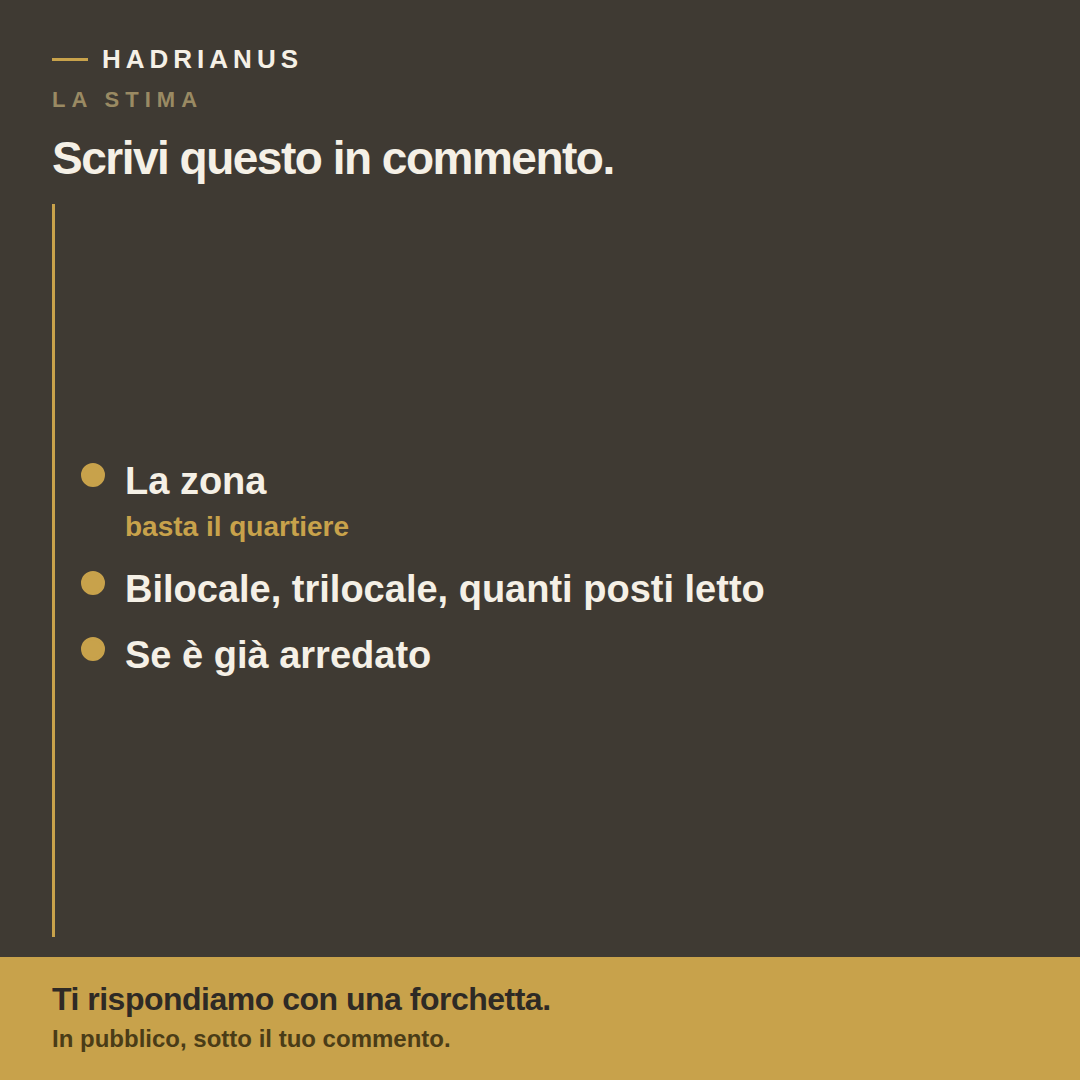
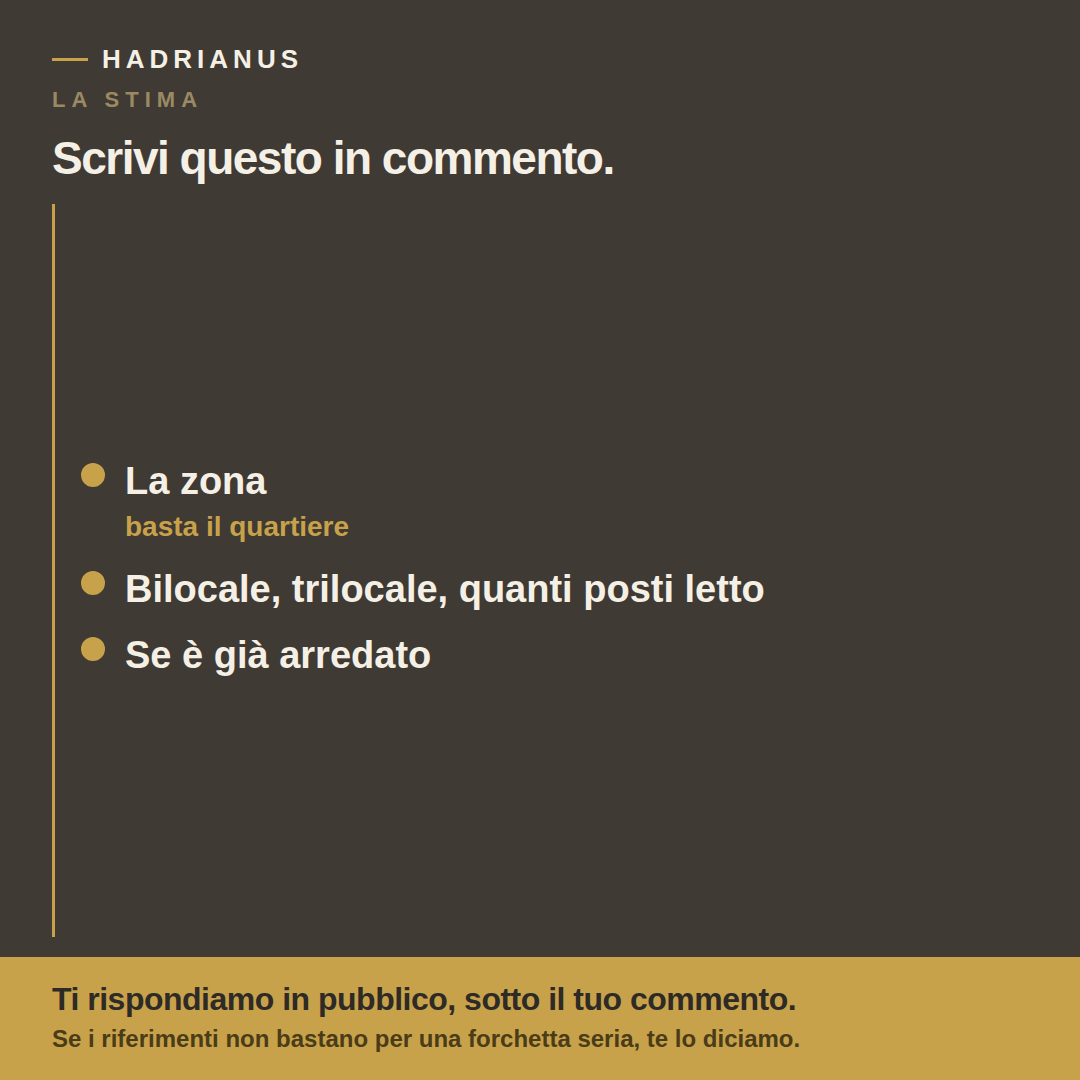
Chiude i bloccanti di compliance sulla campagna a quattro post
Tolta dal testo la riga sull'assicurazione, che resta fuori finché il
titolare non conferma chi emette la polizza: il post 4 regge sul
controllo a ogni check-out. La promessa di dare comunque una forchetta
diventa condizionata, in linea con la regola operativa della campagna
stessa. Nella terza immagine del post 1 i due caveat sono ora
leggibili e il confronto è reso onesto dicendo che in affitto lungo le
utenze le paga l'inquilino. Tolto l'accostamento fra "nessun costo
fisso" e la preparazione iniziale, finché non è chiaro chi la paga.
"Lo sappiamo subito" diventa "lo vediamo al controllo, non mesi dopo".
Corretti il refuso del post 4 e la riga condizioni che si tagliava.

Claude-Session: https://claude.ai/code/session_012jZTrBhTbSbvgQn1isvnmh

Changed region(s): [[0.0306, 0.9167, 0.7333, 0.9778]]

diff --git a/campagne/facebook-campagna-virale/grafiche/P1c.dc.html b/campagne/facebook-campagna-virale/grafiche/P1c.dc.html
@@ -34,19 +34,22 @@
           <div style="display: flex; align-items: flex-start; gap: 20px;">
             <div style="width: 18px; height: 18px; border-radius: 50%; background: #C8A24B; border: 3px solid #C8A24B; flex-shrink: 0;"></div>
             <div style="display: flex; flex-direction: column; gap: 4px; margin-top: -10px;">
-              <span style="font-family: 'Archivo', sans-serif; font-weight: 900; font-size: 66px; line-height: 1.05; letter-spacing: -1.5px; color: #cfc7b8;">800-900 &euro;</span>
+              <span style="font-family: 'Archivo', sans-serif; font-weight: 900; font-size: 58px; line-height: 1.05; letter-spacing: -1.5px; color: #cfc7b8;">800-900 &euro;</span>
               <span style="font-family: 'Manrope', sans-serif; font-weight: 600; font-size: 26px; line-height: 1.24; color: #9a8f7c;">lordi al mese, bilocale a Ostia in affitto lungo</span>
             </div>
           </div>
           <div style="display: flex; align-items: flex-start; gap: 20px;">
             <div style="width: 18px; height: 18px; border-radius: 50%; background: #C8A24B; border: 3px solid #C8A24B; flex-shrink: 0;"></div>
             <div style="display: flex; flex-direction: column; gap: 4px; margin-top: -10px;">
-              <span style="font-family: 'Archivo', sans-serif; font-weight: 900; font-size: 66px; line-height: 1.05; letter-spacing: -1.5px; color: #C8A24B;">1.000-1.100 &euro;</span>
+              <span style="font-family: 'Archivo', sans-serif; font-weight: 900; font-size: 58px; line-height: 1.05; letter-spacing: -1.5px; color: #C8A24B;">1.000-1.100 &euro;</span>
               <span style="font-family: 'Manrope', sans-serif; font-weight: 600; font-size: 26px; line-height: 1.24; color: #d8d2c4;">media al mese su base annua, inverno compreso, al netto delle procedure di gestione: commissione, pulizie, biancheria, consumabili</span>
             </div>
           </div>
-          <p style="font-family: 'Manrope', sans-serif; font-weight: 600; font-size: 25px; line-height: 1.3; margin: 10px 0 0 0; color: #b7ad9a;">Media, non una promessa: ogni casa fa storia a s&eacute;. &middot; Le utenze restano tue.</p>
-          <p style="font-family: 'Manrope', sans-serif; font-weight: 600; font-size: 24px; line-height: 1.3; margin: 0; color: #9a8f7c;">15% solo sulle prenotazioni generate &middot; nessun costo fisso &middot; nessun deposito cauzionale &middot; pagamento il 10 di ogni mese</p>
+          <div style="margin: 12px 0 0 0; display: flex; flex-direction: column; gap: 8px;">
+            <p style="font-family: 'Archivo', sans-serif; font-weight: 800; font-size: 28px; line-height: 1.24; margin: 0; color: #F5F0E6;">Media, non una promessa: ogni casa fa storia a s&eacute;.</p>
+            <p style="font-family: 'Archivo', sans-serif; font-weight: 800; font-size: 28px; line-height: 1.24; margin: 0; color: #F5F0E6;">Le utenze restano tue. In affitto lungo le paga l'inquilino.</p>
+            <p style="font-family: 'Manrope', sans-serif; font-weight: 600; font-size: 23px; line-height: 1.3; margin: 4px 0 0 0; color: #9a8f7c;">15% solo sulle prenotazioni generate &middot; nessun costo fisso &middot; nessun deposito cauzionale &middot; pagamento il 10 di ogni mese</p>
+          </div>
         </div>
       </div>
     </div>

diff --git a/campagne/facebook-campagna-virale/grafiche/P4c.dc.html b/campagne/facebook-campagna-virale/grafiche/P4c.dc.html
@@ -40,8 +40,8 @@
         <div style="display: flex; align-items: flex-start; gap: 20px;">
           <div style="width: 18px; height: 18px; border-radius: 50%; background: #C8A24B; border: 3px solid #C8A24B; flex-shrink: 0;"></div>
           <div style="display: flex; flex-direction: column; gap: 6px; margin-top: -4px;">
-            <span style="font-family: 'Archivo', sans-serif; font-weight: 800; font-size: 38px; line-height: 1.16; color: #F5F0E6;">Se manca o si rompe qualcosa, lo sappiamo subito</span>
-            
+            <span style="font-family: 'Archivo', sans-serif; font-weight: 800; font-size: 38px; line-height: 1.16; color: #F5F0E6;">Se manca o si rompe qualcosa</span>
+            <span style="font-family: 'Manrope', sans-serif; font-weight: 600; font-size: 28px; line-height: 1.26; color: #C8A24B;">lo vediamo al controllo, non mesi dopo</span>
           </div>
         </div>
         <div style="margin-top: 10px; border-left: 6px solid #C8A24B; padding-left: 24px;">

diff --git a/campagne/facebook-campagna-virale/grafiche/P1b.dc.html b/campagne/facebook-campagna-virale/grafiche/P1b.dc.html
@@ -55,8 +55,8 @@
     </div>
 
     <div style="flex-shrink: 0; box-sizing: border-box; background: #C8A24B; color: #2E2A25; margin: 0 -52px; padding: 24px 52px 26px 52px; display: flex; flex-direction: column; gap: 8px;">
-      <span style="font-family: 'Archivo', sans-serif; font-weight: 900; font-size: 32px; line-height: 1.14; letter-spacing: -0.5px;">Ti rispondiamo con una forchetta.</span>
-      <span style="font-family: 'Manrope', sans-serif; font-weight: 600; font-size: 24px; line-height: 1.2; color: #4a3c17;">In pubblico, sotto il tuo commento.</span>
+      <span style="font-family: 'Archivo', sans-serif; font-weight: 900; font-size: 32px; line-height: 1.14; letter-spacing: -0.5px;">Ti rispondiamo in pubblico, sotto il tuo commento.</span>
+      <span style="font-family: 'Manrope', sans-serif; font-weight: 600; font-size: 24px; line-height: 1.2; color: #4a3c17;">Se i riferimenti non bastano per una forchetta seria, te lo diciamo.</span>
     </div>
   </div>
 </div>

diff --git a/campagne/facebook-campagna-virale/grafiche/P3b.dc.html b/campagne/facebook-campagna-virale/grafiche/P3b.dc.html
@@ -43,7 +43,7 @@
           <div style="display: flex; flex-direction: column; gap: 5px; margin-top: -6px;">
             <span style="font-family: 'Archivo', sans-serif; font-weight: 800; font-size: 21px; letter-spacing: 4px; text-transform: uppercase; color: #C8A24B;">Giorni 1-3</span>
             <span style="font-family: 'Archivo', sans-serif; font-weight: 900; font-size: 36px; line-height: 1.14; color: #F5F0E6;">Contratto e documenti</span>
-            <span style="font-family: 'Manrope', sans-serif; font-weight: 500; font-size: 26px; line-height: 1.26; color: #b7ad9a;">Nessun deposito cauzionale, nessun costo fisso. La documentazione la seguiamo noi.</span>
+            <span style="font-family: 'Manrope', sans-serif; font-weight: 500; font-size: 26px; line-height: 1.26; color: #b7ad9a;">Nessun deposito cauzionale. La documentazione la seguiamo noi.</span>
           </div>
         </div>
         <div style="display: flex; align-items: flex-start; gap: 20px;">

diff --git a/campagne/facebook-campagna-virale/checklist-compliance.md b/campagne/facebook-campagna-virale/checklist-compliance.md
@@ -1,0 +1,84 @@
+# Checklist compliance — Facebook: campagna virale in 4 post
+
+Materiale esaminato: `copy.md` (4 post, 8 ganci, tabella "Claim da verificare" con 19 voci) e le 12 artboard in `grafiche/` (`P1a-P1c`, `P2a-P2c`, `P3a-P3c`, `P4a-P4c`), più `grafiche/canvas.json`, `grafiche/kit-campagna-virale.html` e i 12 export in `png/`.
+
+Stato dei claim assunto da questa revisione (chiuso dal titolare in chat): **15% / nessun costo fisso** confermato · **Superhost** confermato e tuttora attivo · **800-900 €** e **1.000-1.100 €** (media annua, inverno compreso, al netto delle procedure di gestione) confermati · **utenze a carico del proprietario** confermato · **TARI e oneri condominiali** a carico del proprietario, non elencati per scelta del titolare (omissione ammessa, negazione vietata). Restano dichiarati aperti: **assicurazione danni ospiti** e **base di calcolo della stima del post 1**.
+
+## Esito
+
+**DA CORREGGERE**
+
+Nessuna delle correzioni tocca l'angolo o la struttura: sono sei interventi circoscritti, di cui due sono solo cancellazioni. La direzione della campagna regge.
+
+## Bloccanti (da correggere prima della consegna)
+
+- **La riga sull'assicurazione è ancora nel copy, con il marcatore** → `copy.md` riga 434: `*[RIGA DA CONFERMARE PRIMA DI PUBBLICARE — vedi Claim 9]* Un'assicurazione copre gli eventuali danni causati dagli ospiti.` Il claim 9 è dichiarato aperto, quindi la riga va **cancellata ora** dal corpo del post 4, marcatore compreso; la condizione di reinserimento resta scritta solo nella tabella claim (riga 589) e nella nota di `canvas.json`. **Il post 4 regge senza**: la sezione "Dopo che è uscito" si chiude su *"Non a fine stagione. Non a settembre, quando ci torni tu."*, che è la riga più forte del blocco, e l'obiezione è portata dalla frase-perno *"Il rischio vero non è chi entra. È quanto tempo passa prima che qualcuno se ne accorga."* Nessun'altra riga va riscritta. Lato grafica non c'è nulla da fare: verificato che la riga **non è impaginata in nessuna delle 12 artboard** (zero occorrenze di "assicur"/"polizza"/"copertura" nei `.dc.html`, in `canvas.json`, nel kit e nei PNG) — la nota di `canvas.json` la documenta correttamente come "NON IMPAGINATA finché il titolare non conferma".
+
+- **Post 1: la base della stima è aperta e regge da sola tutto il post** → `copy.md` claim 1 (riga 581), che il copy stesso dichiara "Bloccante per la pubblicazione del post 1". Il post promette in pubblico una forchetta di rendimento a partire da tre informazioni; finché non esiste una base dichiarabile (annunci comparabili sulla zona / strumento di pricing / storico degli immobili in gestione), il post 1 non esce. Due uscite possibili: **(a)** il titolare dichiara la base → si aggiunge **una riga** nel corpo che la dica ("La forchetta la costruiamo su …") e P1b/P1c restano come sono; **(b)** non esiste una base dichiarabile → la meccanica diventa "ne parliamo e la costruiamo insieme" e vanno riscritti il gancio A (riga 62), il gancio B (riga 72), le righe 98-100, la CTA (riga 131) e la banda di `P1b.dc.html` riga 58.
+
+- **Post 1: la promessa operativa non è sostenibile per come è scritta oggi** → tre impegni incondizionati sovrapposti: rispondere **a tutti** (`copy.md` righe 124 e 131), rispondere **sempre con una forchetta** (righe 72, 98 e soprattutto `P1b.dc.html` riga 58, la banda oro — l'elemento più visibile dell'immagine), rispondere **sempre in pubblico** (riga 100). Il terzo è sostenibile e va tenuto: è la promessa che rende il post pubblicabile una seconda volta. I primi due no, e il secondo **contraddice una regola scritta nella campagna stessa**: `copy.md` riga 516 prevede di rispondere *"su quella zona non ho abbastanza riferimenti per darti una forchetta seria"*. La grafica promette quindi un numero che le regole operative autorizzano a non dare. Correzioni puntuali: banda di `P1b` → *"Ti rispondiamo qui sotto, in pubblico."* con, sotto in corpo minore, *"Dove non abbiamo riferimenti sufficienti te lo diciamo, invece di darti un numero a caso."*; riga 124 → *"Rispondiamo a tutti, in ordine di arrivo: alcuni lo stesso giorno, gli altri nei giorni successivi."*; riga 131 allineata. Tenere invariata la riga *"Non ti chiediamo il numero di telefono per darti un numero"*: è la più forte del post e non promette nulla che non si possa mantenere.
+
+- **P1c: i due numeri non sono omogenei e il caveat che li rende confrontabili è l'elemento più piccolo dell'artboard** → `grafiche/P1c.dc.html` righe 37-48. Le due cifre sono confermate, ma non sono confrontabili: in affitto lungo le utenze sono normalmente a carico dell'inquilino, in affitto breve sono a carico del proprietario (confermato), oltre a TARI e oneri condominiali. Impilate sotto il titolo "I due riferimenti da cui partiamo", il lettore fa la sottrazione e legge "+200 € al mese" — differenza che le utenze assorbono in tutto o in parte. È esattamente il conto che il primo commentatore competente rifarà in pubblico. Due correzioni, entrambe a costo zero: **(1)** qualificare la prima cifra (es. *"lordi al mese, bilocale a Ostia in affitto lungo — con le utenze normalmente a carico dell'inquilino"*), così le due righe dicono ciascuna cosa comprende; **(2)** portare il caveat obbligatorio (oggi 25 px, colore `#b7ad9a`, **due formule schiacciate su una sola riga separate da un "·"**, contro numeri da 66 px) a corpo ≥ 32 px, colore `#F5F0E6`/`#d8d2c4`, **su due righe distinte**. Lo spazio c'è: nel render l'artboard ha ~170 px di vuoto sopra la prima cifra. Le formule sono presenti e alla lettera — il problema è che l'unica cosa che tiene onesto il confronto è la più debole dell'immagine.
+
+- **P4c: la riga condizioni è tagliata dalla banda oro** → `grafiche/P4c.dc.html` riga 54. Nel render `png/P4c.png` la riga *"15% solo sulle prenotazioni generate · nessun costo fisso · pagamento il 10 di ogni mese"* va a capo e la seconda riga ("mese") finisce sotto/tagliata dalla banda oro. È l'unica riga dell'artboard che non può essere troncata, perché è la comunicazione delle condizioni economiche: troncata si legge come informativa incompleta. Fix: portare il corpo a 21-22 px, o spezzare la stringa con un `<br>` esplicito, o dare al blocco un `margin-bottom` prima della banda.
+
+- **Quattro claim della tabella non sono stati chiusi e il messaggio di assegnazione non li copre** → il silenzio non è conferma, e in grafica questi claim diventano più assertivi che nel testo. Servono quattro sì/no dal titolare:
+  - **Claim 6 — fasi e tempi dei primi 30 giorni** (`copy.md` riga 586, che lo dichiara "Bloccante per la pubblicazione del post 3"). Giorno 0 / 1-3 / 3-7 / 5-10 / ~10 / 10-30 sono impaginati come processo in `P3b` e `P3c`. Il caveat "I tempi sono indicativi" c'è ed è alla lettera, ma non sostituisce la conferma delle fasi.
+  - **Claim 8 — chi paga la preparazione iniziale** (riga 588). È la domanda con il raggio più ampio: `P3b.dc.html` mette *"Nessun deposito cauzionale, nessun costo fisso"* (GIORNI 1-3) e *"Pulizia iniziale a fondo…, biancheria, consumabili, dotazione"* (GIORNI 3-7) uno sotto l'altro e allo stesso peso — il lettore deduce che l'avvio sia gratuito. Se anche un solo costo una tantum è a carico del proprietario, vanno corretti `P1c`, `P3b`, `P4c` e i quattro post.
+  - **Claim 10 — selezione ospiti** (riga 590). `P4b.dc.html` trasforma quattro comportamenti in una procedura in quattro punti, chiusa dalla banda oro a piena larghezza *"Chi risponde in modo vago non entra."* Se la selezione è più informale, l'immagine sta affermando una procedura che non esiste: va ammorbidita ("guardiamo", "chiediamo").
+  - **Claim 12 — "lo stesso giorno"** (riga 592): incoerenza già presente tra copy e grafica. `P4c` scrive la versione prudente (*"lo sappiamo subito"*), `copy.md` riga 430 scrive quella non confermata (*"lo sappiamo lo stesso giorno"*). Allineare il testo alla grafica, oppure confermare il claim.
+
+## Da avere pronto per i commenti (non blocca la pubblicazione)
+
+Nessuna di queste voci entra nei post o nelle grafiche. Servono scritte, prima di pubblicare, perché arrivano nel thread e la risposta improvvisata è il vero rischio.
+
+1. **Assicurazione danni ospiti (claim 9).** Anche con la riga tolta, su post 4 arriva "e se me la rovinano davvero, chi paga?". La risposta non deve promettere ciò che non è verificato: *"il controllo è a ogni check-out; sulla copertura danni ti do il dettaglio esatto in privato, non voglio dirti una cosa a metà"*. Non usare la parola "assicurazione" come se fosse una polizza propria finché non si sa chi la emette; se è la copertura della piattaforma si dice **"la copertura prevista dalla piattaforma"** (`copy.md` riga 589). Nota di contesto: in `campagne/INDEX.md` la stessa riga blocca già `facebook-lungo-vs-breve-proprietari` ("🟡 Pronta salvo dettagli assicurazione da avere per i commenti"). È il terzo materiale che si ferma sullo stesso punto: chiuderlo una volta sblocca tre campagne.
+2. **Su cosa si basa la stima (claim 1).** Anche dopo lo sblocco, serve in **una riga sola**, ripetibile in pubblico venti volte sotto lo stesso post.
+3. **"800-900 € lordi a Ostia" (claim 17).** Confermato dal titolare, ma è un'affermazione sul mercato altrui: "su cosa lo basi?" arriva. Serve l'origine (annunci osservati, esperienza diretta, ecc.), da dare come tale.
+4. **Media 1.000-1.100 € (claim 16, parte ereditata ancora aperta).** Su quanti immobili e su quale arco temporale è calcolata, e cosa comprende esattamente il "netto". Non si scrive nel post; serve nel thread.
+5. **TARI e oneri condominiali.** L'omissione è ammessa, la negazione no. Alla domanda diretta "quindi non pago altro?" la risposta è *"utenze, TARI e oneri condominiali restano tue"*, **mai** "no, nient'altro". Va messa per iscritto nella scaletta risposte: è quella che scivola sotto pressione, e nei commenti diventerebbe una formula assoluta sui costi — vietata.
+6. **Penalità di cancellazione (claim 5) e adempimenti per affittare in regola (claim 7).** Nessuna fonte e nessun riferimento normativo, né nel post né nei commenti: si risponde su cosa fa Hadrianus, non su cosa prevede la legge o su come funzionano i ranking delle piattaforme.
+7. **Identificazione ospiti (claim 11).** Chi la esegue materialmente, come, in che tempi. Risposta operativa, non normativa.
+8. **Inventario iniziale (claim 13).** Se esiste, è materiale forte per il post 4 — ma va aggiunto **in copy** dopo la conferma, non improvvisato in un commento.
+9. **Superhost (claim 14).** Confermato e attivo, quindi scrivibile. Nei commenti non si aggiungono il numero totale di recensioni, "tutte 5 stelle" o la media (claim 15, ereditato e aperto), e non si nomina la struttura.
+
+## Osservazioni (non bloccanti, ma da considerare)
+
+- **Refuso, `copy.md` riga 440:** *"E quella casa la vedi quasi mai."* — manca la negazione. Nel gancio B della stessa sezione (riga 397) la frase è corretta: *"e quella casa non la vedi quasi mai"*.
+- **`P1c`, titolo:** *"I due riferimenti da cui partiamo"* afferma un metodo (che la stima parte da quelle due cifre) che è precisamente il claim 1 non confermato — ed è più assertivo del copy, che dice *"Due riferimenti, per capire di cosa stiamo parlando"* (riga 102). Allineare il titolo al copy.
+- **Persona grammaticale incoerente tra copy e grafiche.** Il gancio A del post 4 dice *"Non provo a rassicurarti"* (io), `P4a.dc.html` riga 38 dice *"Non proviamo a rassicurarti"* (noi): se l'immagine circola con il post, il lettore vede due voci nello stesso contenuto. Lo stesso salto è dentro il post 3 (*"Qui non ti prometto niente"* / *"Quello che possiamo garantirti"*). Scegliere il "noi" ovunque — coerente con `riferimenti/riferimento-1.md` e con tutte e 12 le artboard — tenendo la prima persona solo dove è una firma voluta.
+- **`P3c`, riga 54:** *"Quello che garantiamo è che la casa è pronta ogni volta."* È una garanzia sul proprio operato, non sul risultato, quindi regge; ma "garantiamo" isolato in una grafica che circola da sola è la parola che attira la contestazione. Nel copy è più prudente (*"Quello che possiamo garantirti"*, riga 336): allineare la grafica al copy.
+- **Virgolette dritte ASCII** in `P3a.dc.html` riga 57 (`"Firmo. E poi cosa succede?"`) e in `P2c.dc.html` riga 36 (`"quando mi ricordo"`), mentre tutto il resto delle artboard usa entità tipografiche corrette. Usare caporali o virgolette curve.
+- **Vuoti verticali nelle quadrate.** Il blocco centrale è `align-items: center` con il filo oro stirato a tutta altezza: in `P1c`, `P2c`, `P4b`, `P4c` restano 150-200 px di vuoto sopra e sotto mentre la linea corre a vuoto. Non è compliance, ma fa sembrare le artboard non finite in feed — e in `P1c` quel vuoto è esattamente lo spazio che serve per ingrandire il caveat.
+- **Rimandi tra immagini:** *"Gli altri tre nell'immagine successiva."* (`P2b`) e *"Le fasi successive nell'immagine dopo."* (`P3b`). Nel collage Facebook l'ordine non è garantito su tutti i client, e queste immagini vengono ricondivise da sole. Una formula neutra ("1-3 di 6") è più solida.
+- **Firma di campagna disomogenea.** Il "punto d'oro" unico è rispettato e corretto nelle verticali (soggiorno in `P1a`, bagno in `P2a`, porta d'ingresso in `P4a` — il cerchio a `cx=10 cy=75` cade proprio sul varco della porta), ma nelle quadrate ogni bullet è un pallino oro identico e la firma si dissolve; `P3a` inoltre rinuncia del tutto alla planimetria per una colonna di nodi. Coerente abbastanza per uscire, da guardare in `revisore-marketing-design`.
+- **Marcatore residuo fuori dai contenuti:** `copy.md` riga 524 contiene `[DATO DA VERIFICARE: elenco reale dei gruppi Facebook…]`. Non è un claim dentro un post e non blocca la pubblicazione dei contenuti, ma **blocca il calendario**: finché non è compilato, il piano a 6 settimane è uno schema, non una pianificazione eseguibile.
+- **Completezza di processo.** Manca `brief-mercato.md`: la campagna non è passata da `ricercatore-mercato` e `copy.md` lo dichiara apertamente in apertura (righe 3-6). L'angolo, il ruolo dei post e la direzione artistica sono comunque coerenti tra loro (stesso target, stesso pubblico dichiarato, stessa firma visiva), quindi non blocco — ma va sanato o annotato come deroga consapevole. Inoltre la riga in `campagne/INDEX.md` (riga 13) è ferma a *"🔴 Copy pronto — mancano `compliance-checker` e grafiche"*: le 12 grafiche esistono, va aggiornata dopo queste correzioni.
+
+## Coerenza col tono Hadrianus
+
+**In linea**, e su un punto migliore dei riferimenti stessi.
+
+`riferimenti/riferimento-1.md` vende con *"trasformiamo il tuo immobile in una vera rendita passiva"* e *"il 15% che paghi, per il 100% di stress che non paghi più"*: qui lo stesso concetto è reso con *"Non ti chiediamo il numero di telefono per darti un numero"* e *"Ci costa un cliente. A te fa risparmiare un anno"* — più vicino al pubblico dichiarato (competente, diffidente, allergico alla pubblicità) e senza la promessa di passività, che è il claim più fragile del materiale originale.
+
+`riferimenti/riferimento-2.md` è costruito sul case study nominato (Rome Smart Sea, ADR ~183 €, media 5.0, badge Superhost): la campagna **non lo riprende**, ed è la scelta corretta secondo `.claude/reference/lessico-brand.md`. Nessuna struttura nominata, nessun ADR, nessuna media, nessun badge riprodotto, la citazione di Attila tagliata dei riferimenti geografici e tenuta fuori dalla grafica.
+
+Lessico verificato riga per riga su tutti e 12 i file: **"standard alberghiero"** in `P3b` e `P4c`, mai "hotel-style" (zero occorrenze); **"Guadagniamo solo se guadagni tu"** alla lettera in `P1c`, `P2c`, `P3c`, `P4c`, mai la forma sbagliata "guadagni solo se guadagni tu" (zero occorrenze).
+
+Due punti in cui la voce scivola verso il generico, entrambi già elencati sopra: il titolo di `P1c` ("I due riferimenti da cui partiamo") suona come un'agenzia che espone un metodo, dove il copy parla da pari a pari; e l'alternanza io/noi è l'unica cosa che fa sentire più mani nello stesso testo.
+
+## Verifiche richieste — esito puntuale
+
+| # | Verifica | Esito |
+|---|---|---|
+| 1 | Riga assicurazione fuori da ogni artboard, e post 4 che regge | **OK sulle grafiche** — zero occorrenze nei 12 `.dc.html`, in `canvas.json` (dove è documentata come non impaginata), nel kit e nei 12 PNG. `P4c` chiude sulla frase-perno e non ha buchi logici. **Da correggere nel copy**: la riga con il marcatore è ancora alla riga 434 → bloccante 1 |
+| 2 | Nessuna percentuale di occupazione/crescita/visibilità, grafici, frecce, urgenza inventata, promesse di risultato | **OK.** L'unica percentuale in grafica è il 15% (confermato). Nessun SVG oltre alla planimetria e ai nodi della timeline: nessun grafico, nessuna freccia. Nessuna scarsità, scadenza o "solo X posti". Nessun rendimento garantito. Unica parola da sorvegliare: "garantiamo" in `P3c` → osservazione |
+| 3 | Formule obbligate alla lettera dove le immagini circolano da sole | **OK, tutte e sei.** *"Media, non una promessa: ogni casa fa storia a sé."* e *"Le utenze restano tue."* in `P1c` r.48 · *"Guadagniamo solo se guadagni tu."* in `P1c` r.55, `P2c` r.61, `P3c` r.66, `P4c` r.57 · *"standard alberghiero"* in `P3b` r.54 e `P4c` r.37 · *"È una simulazione, non una promessa."* in `P1a` r.40 · *"I tempi sono indicativi."* in `P3a` r.60 e `P3c` r.65. Riserva sulla **leggibilità** delle prime due in `P1c` → bloccante 4 |
+| 4 | Nessuna formula assoluta sui costi | **OK.** Nessun "tutto incluso", "l'unica spesa", "nessun altro costo" in nessun file. "Nessun costo fisso" e "nessun deposito cauzionale" sono le formule confermate, non formule assolute. `P3b` e `P4c` le portano senza la riga sulle utenze accanto: conforme alla regola (obbligatoria solo nel post 1 e nella sua img 3), ed è il motivo per cui il punto 5 dell'elenco "da avere pronto" va scritto prima di pubblicare |
+| 5 | `P2c`: richiesta di condivisione più grande dell'offerta | **OK, gerarchia rispettata e non invertita.** Condivisione: Archivo 900, 40 px, nero su banda oro a piena larghezza. Offerta: Manrope 500, 21 px, `#9a8f7c` su fondo scuro. Rapporto ~2:1 nel corpo e massimo nel contrasto; verificato anche sul render |
+| 6 | Planimetria generica, nessun badge/screenshot/logo di terzi | **OK.** La pianta è uno schema (perimetro + due tramezzi), senza quote, metrature, nomi di stanza né elementi riconoscibili: non richiama nessun immobile reale. Nessun `<img>` e nessuna foto da `brand-assets/` in nessuna artboard — quindi rischio marchi di terzi pari a zero, `smart-tv-streaming-mockup.jpg` non è mai referenziato. Nessun badge o screenshot di piattaforma (`P3c` non impagina la riga Superhost). Nota: `P1a` poteva usare un interno reale sotto gradiente, l'art-director ha scelto il fumè pieno — scelta che elimina anche il rischio residuo |
+| 7 | Meccanica del post 1: sostenibile o da ridimensionare | **Da ridimensionare, non da abbandonare.** La risposta pubblica va tenuta (è ciò che rende il post ripubblicabile); vanno tolti gli incondizionati "a tutti" e "sempre con una forchetta", che oggi contraddicono la regola operativa scritta alla riga 516 → bloccante 3. In più, la meccanica non è pubblicabile finché il claim 1 è aperto → bloccante 2 |
+
+---
+
+**Prossimo passo.** Correzioni al `copywriter` (bloccanti 1, 3 lato testo, 6 dopo le conferme del titolare) e all'`art-director` (bloccanti 3 lato `P1b`, 4 su `P1c`, 5 su `P4c`). Le quattro domande del bloccante 6 e le nove voci "da avere pronto" vanno poste al titolare in un blocco solo. Dopo le correzioni: nuovo passaggio di compliance sulle sole artboard toccate, poi `revisore-marketing-design` (è una campagna completa), poi aggiornamento della riga in `campagne/INDEX.md`.

diff --git a/campagne/facebook-campagna-virale/copy.md b/campagne/facebook-campagna-virale/copy.md
@@ -95,7 +95,7 @@ che immobile è (bilocale, trilocale, quanti posti letto)
 
 se è già arredato
 
-Ti rispondiamo con una forchetta di quanto potrebbe rendere in affitto breve gestito, mesi bassi compresi.
+Ti rispondiamo con una forchetta di quanto potrebbe rendere in affitto breve gestito, mesi bassi compresi. Se i riferimenti che ci dai non bastano per una forchetta seria, te lo diciamo invece di inventarla.
 
 Gratis, sotto il tuo commento, in pubblico. Non ti chiediamo il numero di telefono per darti un numero.
 
@@ -121,14 +121,14 @@ Per il resto il nostro modello è corto: 15% solo sulle prenotazioni che generia
 
 Guadagniamo solo se guadagni tu.
 
-Scrivi zona e tipo di immobile qui sotto. Le stime le facciamo a mano, una per una: rispondiamo a tutti, in ordine di arrivo.
+Scrivi zona e tipo di immobile qui sotto. Le stime le facciamo a mano, una per una: rispondiamo in ordine di arrivo.
 
 ---
 
 ## CTA
 
 **Una sola, in commento pubblico:**
-> Scrivi zona e tipo di immobile qui sotto. Rispondiamo a tutti, in ordine di arrivo.
+> Scrivi zona e tipo di immobile qui sotto. Rispondiamo in ordine di arrivo.
 
 Nessuna CTA alternativa nel testo. Il privato si apre **dopo**, dentro il thread, e solo su richiesta di chi commenta (vedi "Come farlo girare").
 
@@ -431,13 +431,12 @@ Vuol dire che se manca qualcosa, o si è rotto qualcosa, lo sappiamo lo stesso g
 
 Non a fine stagione. Non a settembre, quando ci torni tu.
 
-*[RIGA DA CONFERMARE PRIMA DI PUBBLICARE — vedi Claim 9]* Un'assicurazione copre gli eventuali danni causati dagli ospiti.
 
 ---
 
 E poi c'è la cosa che quasi nessuno mette sul piatto.
 
-In affitto lungo dentro casa tua c'è una persona sola, per anni. E quella casa la vedi quasi mai.
+In affitto lungo dentro casa tua c'è una persona sola, per anni. E quella casa non la vedi quasi mai.
 
 Con noi ci passano più persone, ma dopo ognuna di loro qualcuno apre la porta e guarda.
 
@@ -454,14 +453,14 @@ Per il resto: 15% solo sulle prenotazioni che generiamo, nessun costo fisso, nes
 
 Guadagniamo solo se guadagni tu. Anche sulla cura della casa: se la trattiamo male, i primi a rimetterci siamo noi.
 
-Se hai una domanda su questo, anche la più scomoda, scrivila qui sotto. Rispondiamo a tutte, in pubblico.
+Se hai una domanda su questo, anche la più scomoda, scrivila qui sotto. Rispondiamo in pubblico, in ordine di arrivo.
 
 ---
 
 ## CTA
 
 **Una sola, in commento pubblico:**
-> Se hai una domanda su questo, anche la più scomoda, scrivila qui sotto. Rispondiamo a tutte, in pubblico.
+> Se hai una domanda su questo, anche la più scomoda, scrivila qui sotto. Rispondiamo in pubblico, in ordine di arrivo.
 
 **Differenza dal post 1:** il post 1 chiede **dati** (zona, tipo, posti letto), il post 4 chiede **dubbi**. Sono due meccaniche di commento diverse e non si annullano a vicenda, anche se i due post finiscono nello stesso gruppo a tre settimane di distanza.
 
@@ -703,7 +702,7 @@ Post 1 → `LA STIMA` · Post 2 → `GLI ERRORI` · Post 3 → `I PRIMI 30 GIORN
 **img 2 — 1080×1080 — FASI 1-3**
 - Spina dorsale in oro sul bordo sinistro, tre nodi pieni. Ogni fase: **etichetta giorno** (Archivo 800 uppercase, oro, piccola) + **titolo** + **una riga di descrizione**.
   **GIORNO 0** — *Il sopralluogo* — "Guardiamo cosa c'è, cosa manca. Se non conviene, te lo diciamo lì."
-  **GIORNI 1-3** — *Contratto e documenti* — "Nessun deposito cauzionale, nessun costo fisso. La documentazione la seguiamo noi."
+  **GIORNI 1-3** — *Contratto e documenti* — "Nessun deposito cauzionale. La documentazione la seguiamo noi."
   **GIORNI 3-7** — *La casa si prepara* — "Pulizia iniziale a fondo in standard alberghiero, biancheria, consumabili, dotazione."
 - **Vietato:** numeri di step giganti stile 01/02/03 (firma di `instagram-fiducia-proprietari`).
 
@@ -738,7 +737,7 @@ Post 1 → `LA STIMA` · Post 2 → `GLI ERRORI` · Post 3 → `I PRIMI 30 GIORN
 **img 3 — 1080×1080 — DOPO CHE È USCITO + CTA**
 - Titolo: **"Dopo che è uscito"**.
   - **A ogni check-out la casa è controllata stanza per stanza e ripristinata secondo lo standard alberghiero.**
-  - **Se manca o si rompe qualcosa, lo sappiamo subito.** *(scrivere "lo stesso giorno" solo se il claim 12 viene confermato)*
+  - **Se manca o si rompe qualcosa, lo vediamo al controllo, non mesi dopo.** *(scrivere "lo stesso giorno" solo se il claim 12 viene confermato)*
   - **Riga assicurazione: da impaginare SOLO se il claim 9 è stato chiuso.** Se resta aperto, la riga **non entra in grafica** e l'immagine regge sul controllo a ogni check-out.
 - **Frase-perno**, la più grande dell'immagine dopo il titolo: **"Il rischio non è chi entra. È quanto tempo passa prima che qualcuno se ne accorga."**
 - Chiusura: **"15% solo sulle prenotazioni generate · nessun costo fisso · pagamento il 10 di ogni mese"** + **"Guadagniamo solo se guadagni tu"** + **"Hai una domanda scomoda? Scrivila in commento."**
